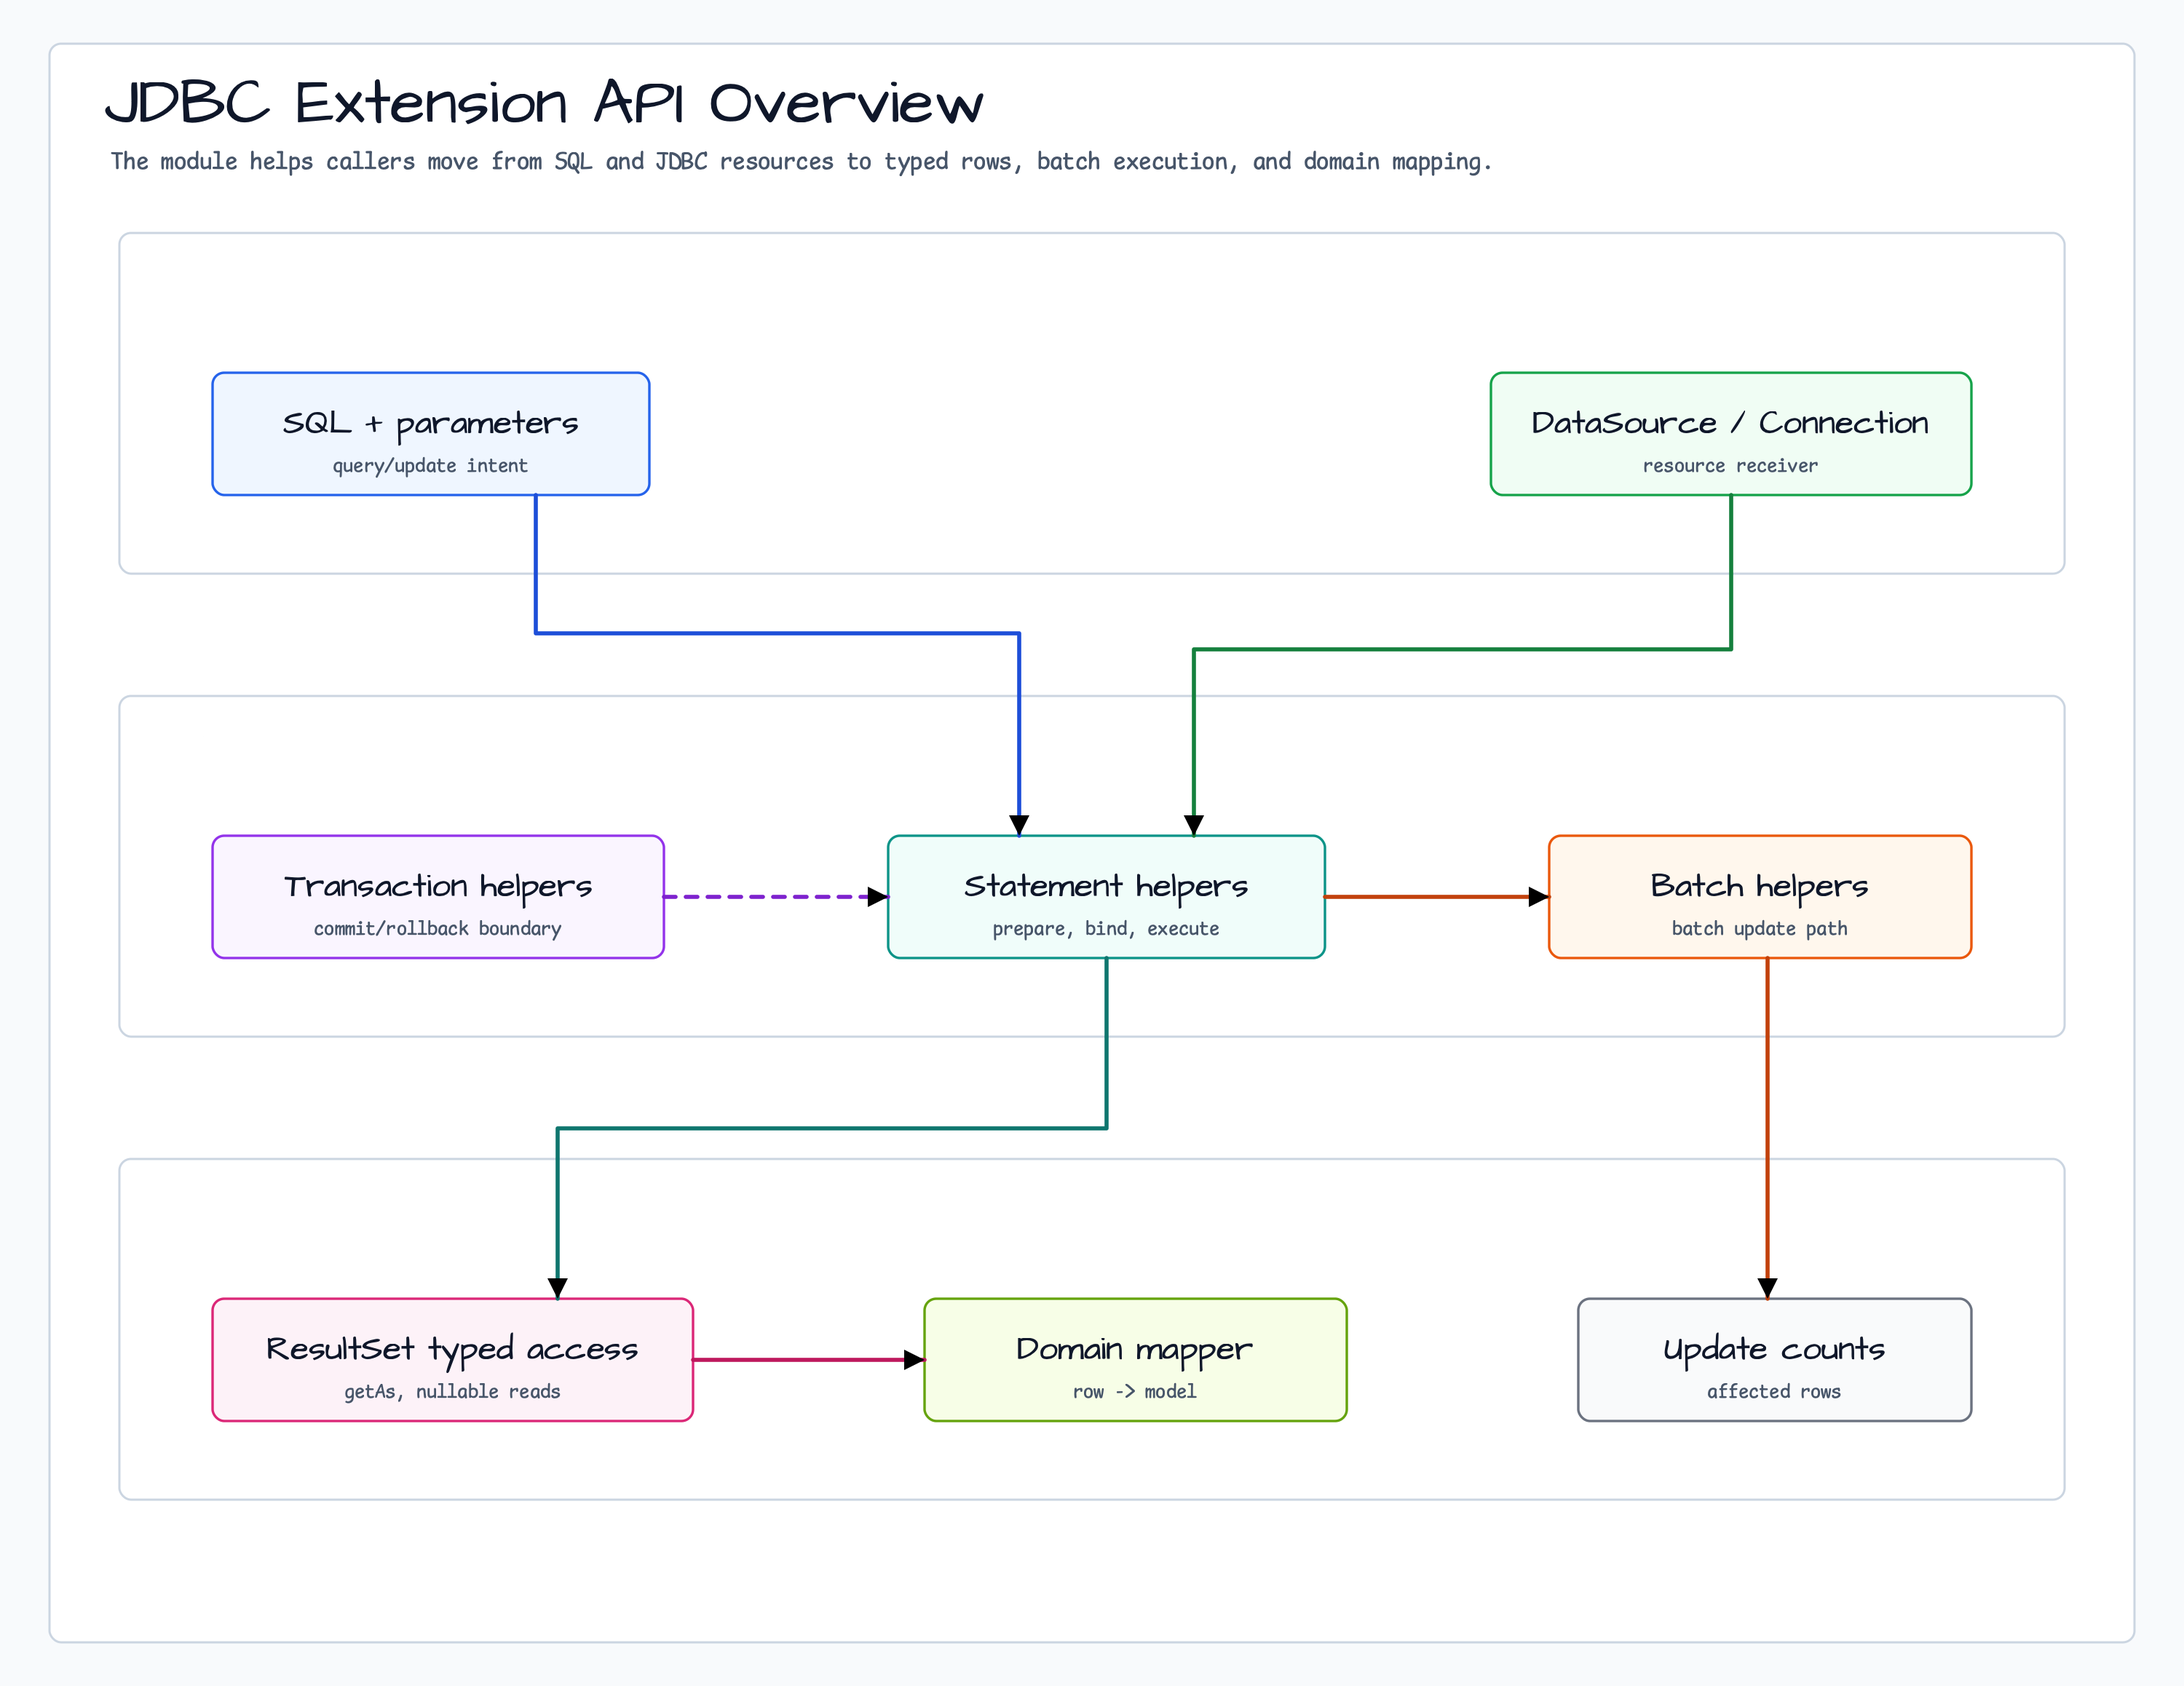
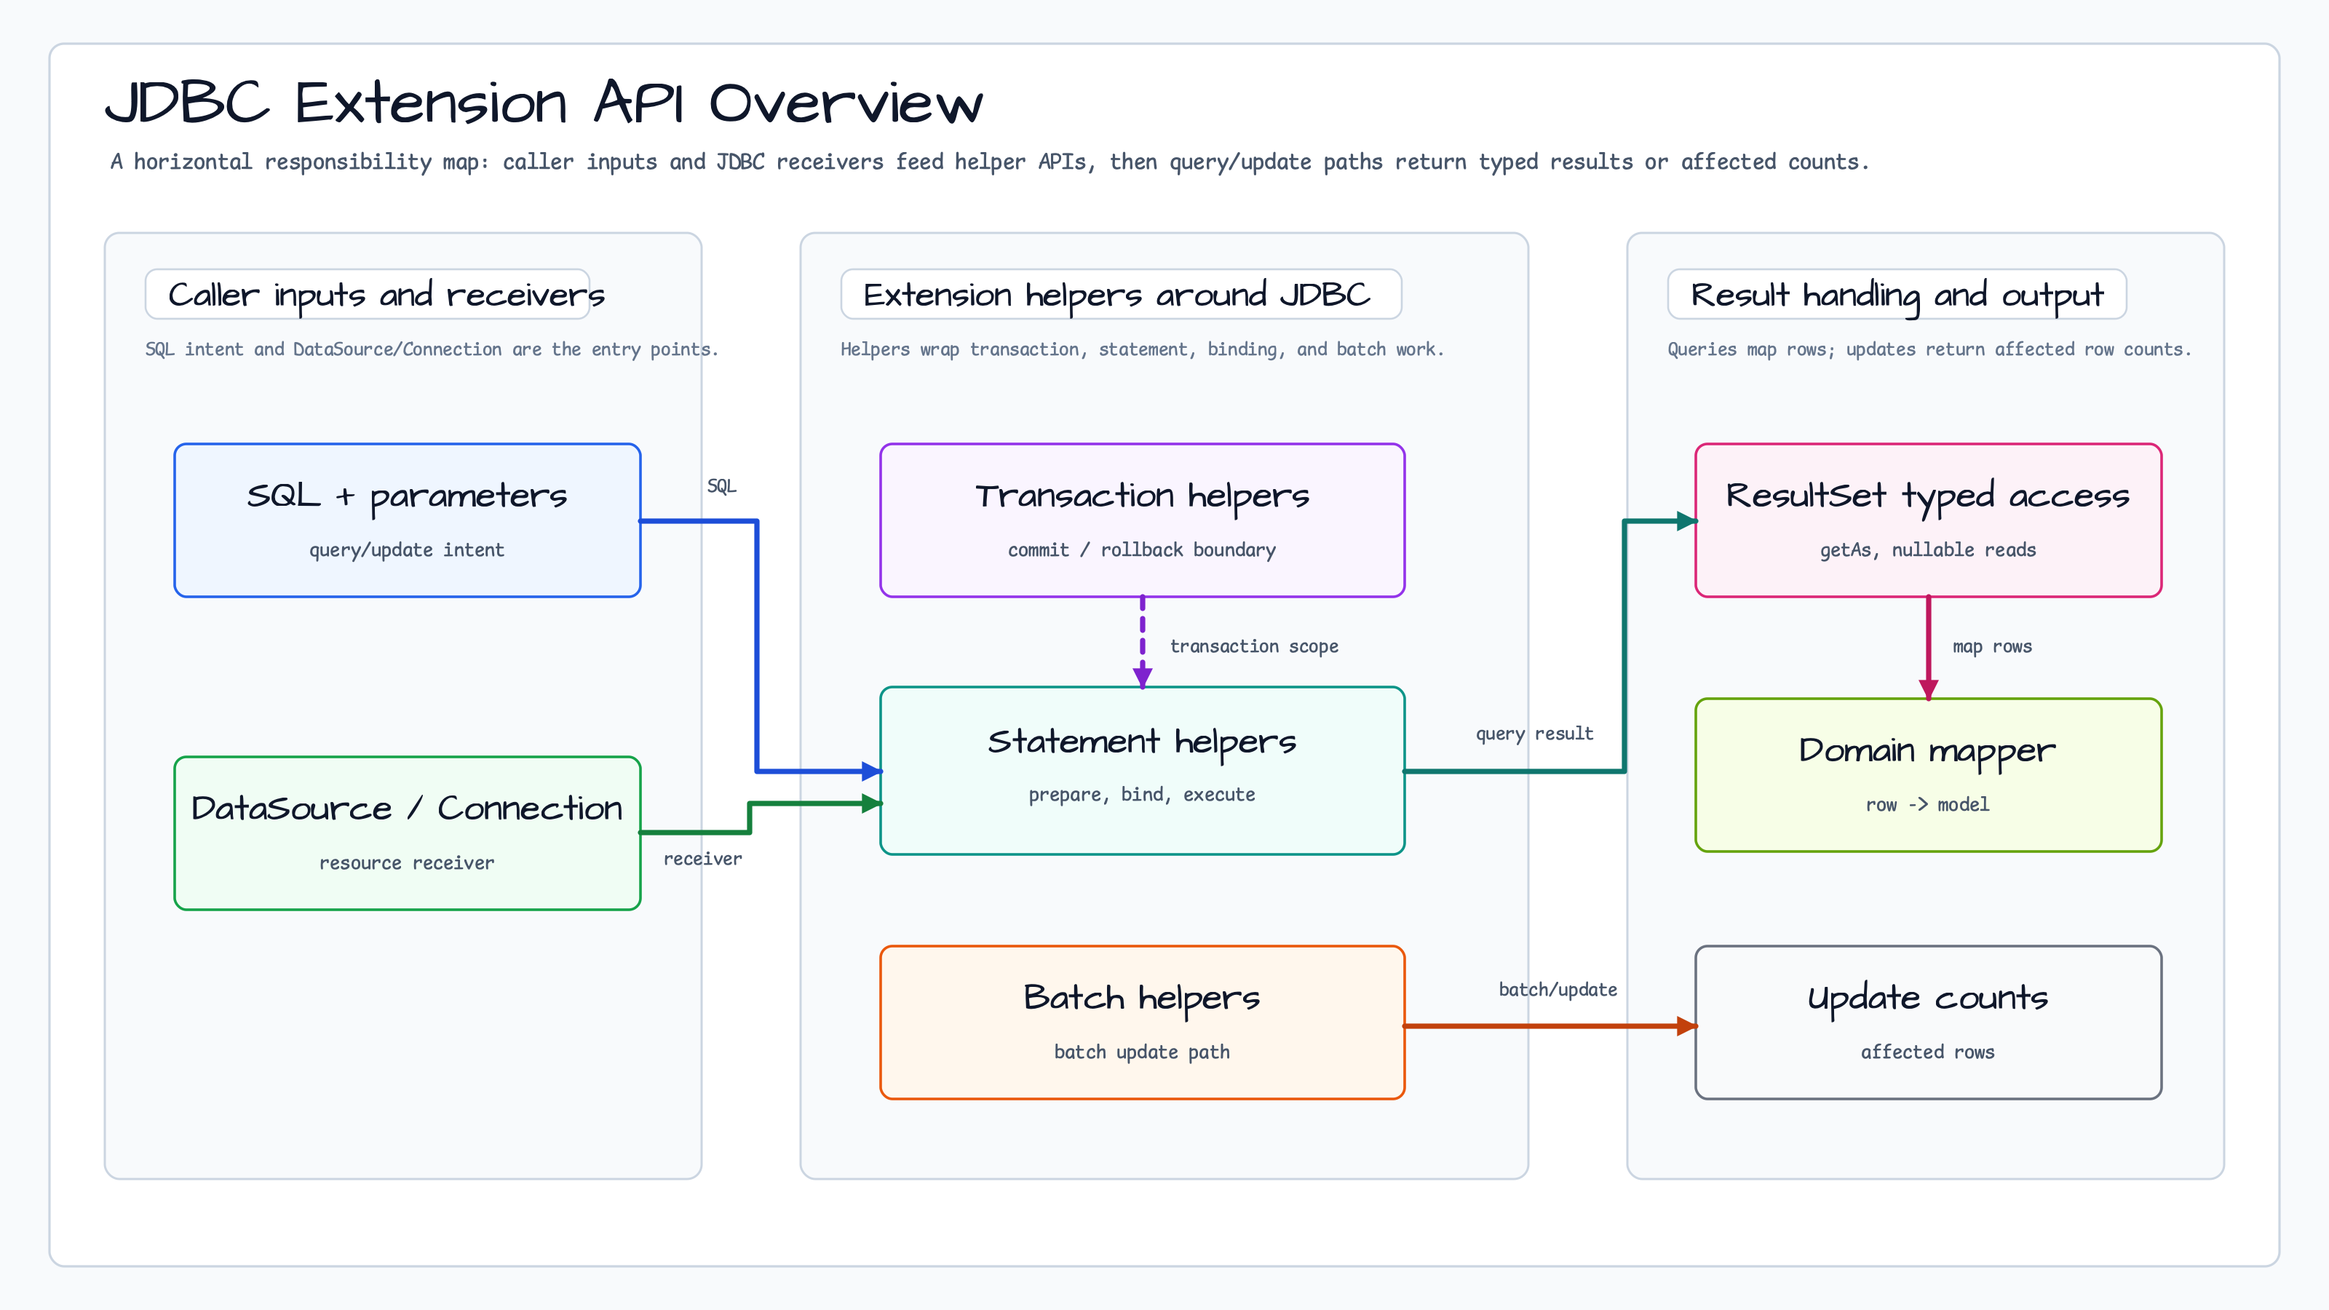
docs: clarify jdbc API diagrams
Constraint: JDBC diagrams must distinguish caller inputs, JDBC receivers, helper APIs, and result handling without exposing generation metadata.
Rejected: keep the stacked layer diagram | horizontal responsibility columns make the layer meaning and connector flow clearer.
Confidence: high
Scope-risk: narrow
Directive: Keep data-jdbc overview layers horizontal unless a future source change introduces a true top-down lifecycle.
Tested: README/source review; SVG XML parse; forbidden-pattern scan; README image link check; orthogonal crossing check; content margin audit; CairoSVG render; PNG visual inspection for diagrams 01-02 and sequence 01; git diff --check.
Not-tested: Gradle build; docs-only change.

diff --git a/data/jdbc/README.md b/data/jdbc/README.md
@@ -2,7 +2,7 @@
 
 English | [한국어](./README.ko.md)
 
-A Kotlin extension library that eliminates boilerplate when working with JDBC (Java Database Connectivity). Leverage Kotlin's expressive power to write type-safe, concise database code.
+A Kotlin extension library that reduces boilerplate when working with JDBC (Java Database Connectivity). It keeps connection handling, statement execution, result mapping, and transaction blocks concise while preserving the underlying JDBC behavior.
 
 ## Features
 
